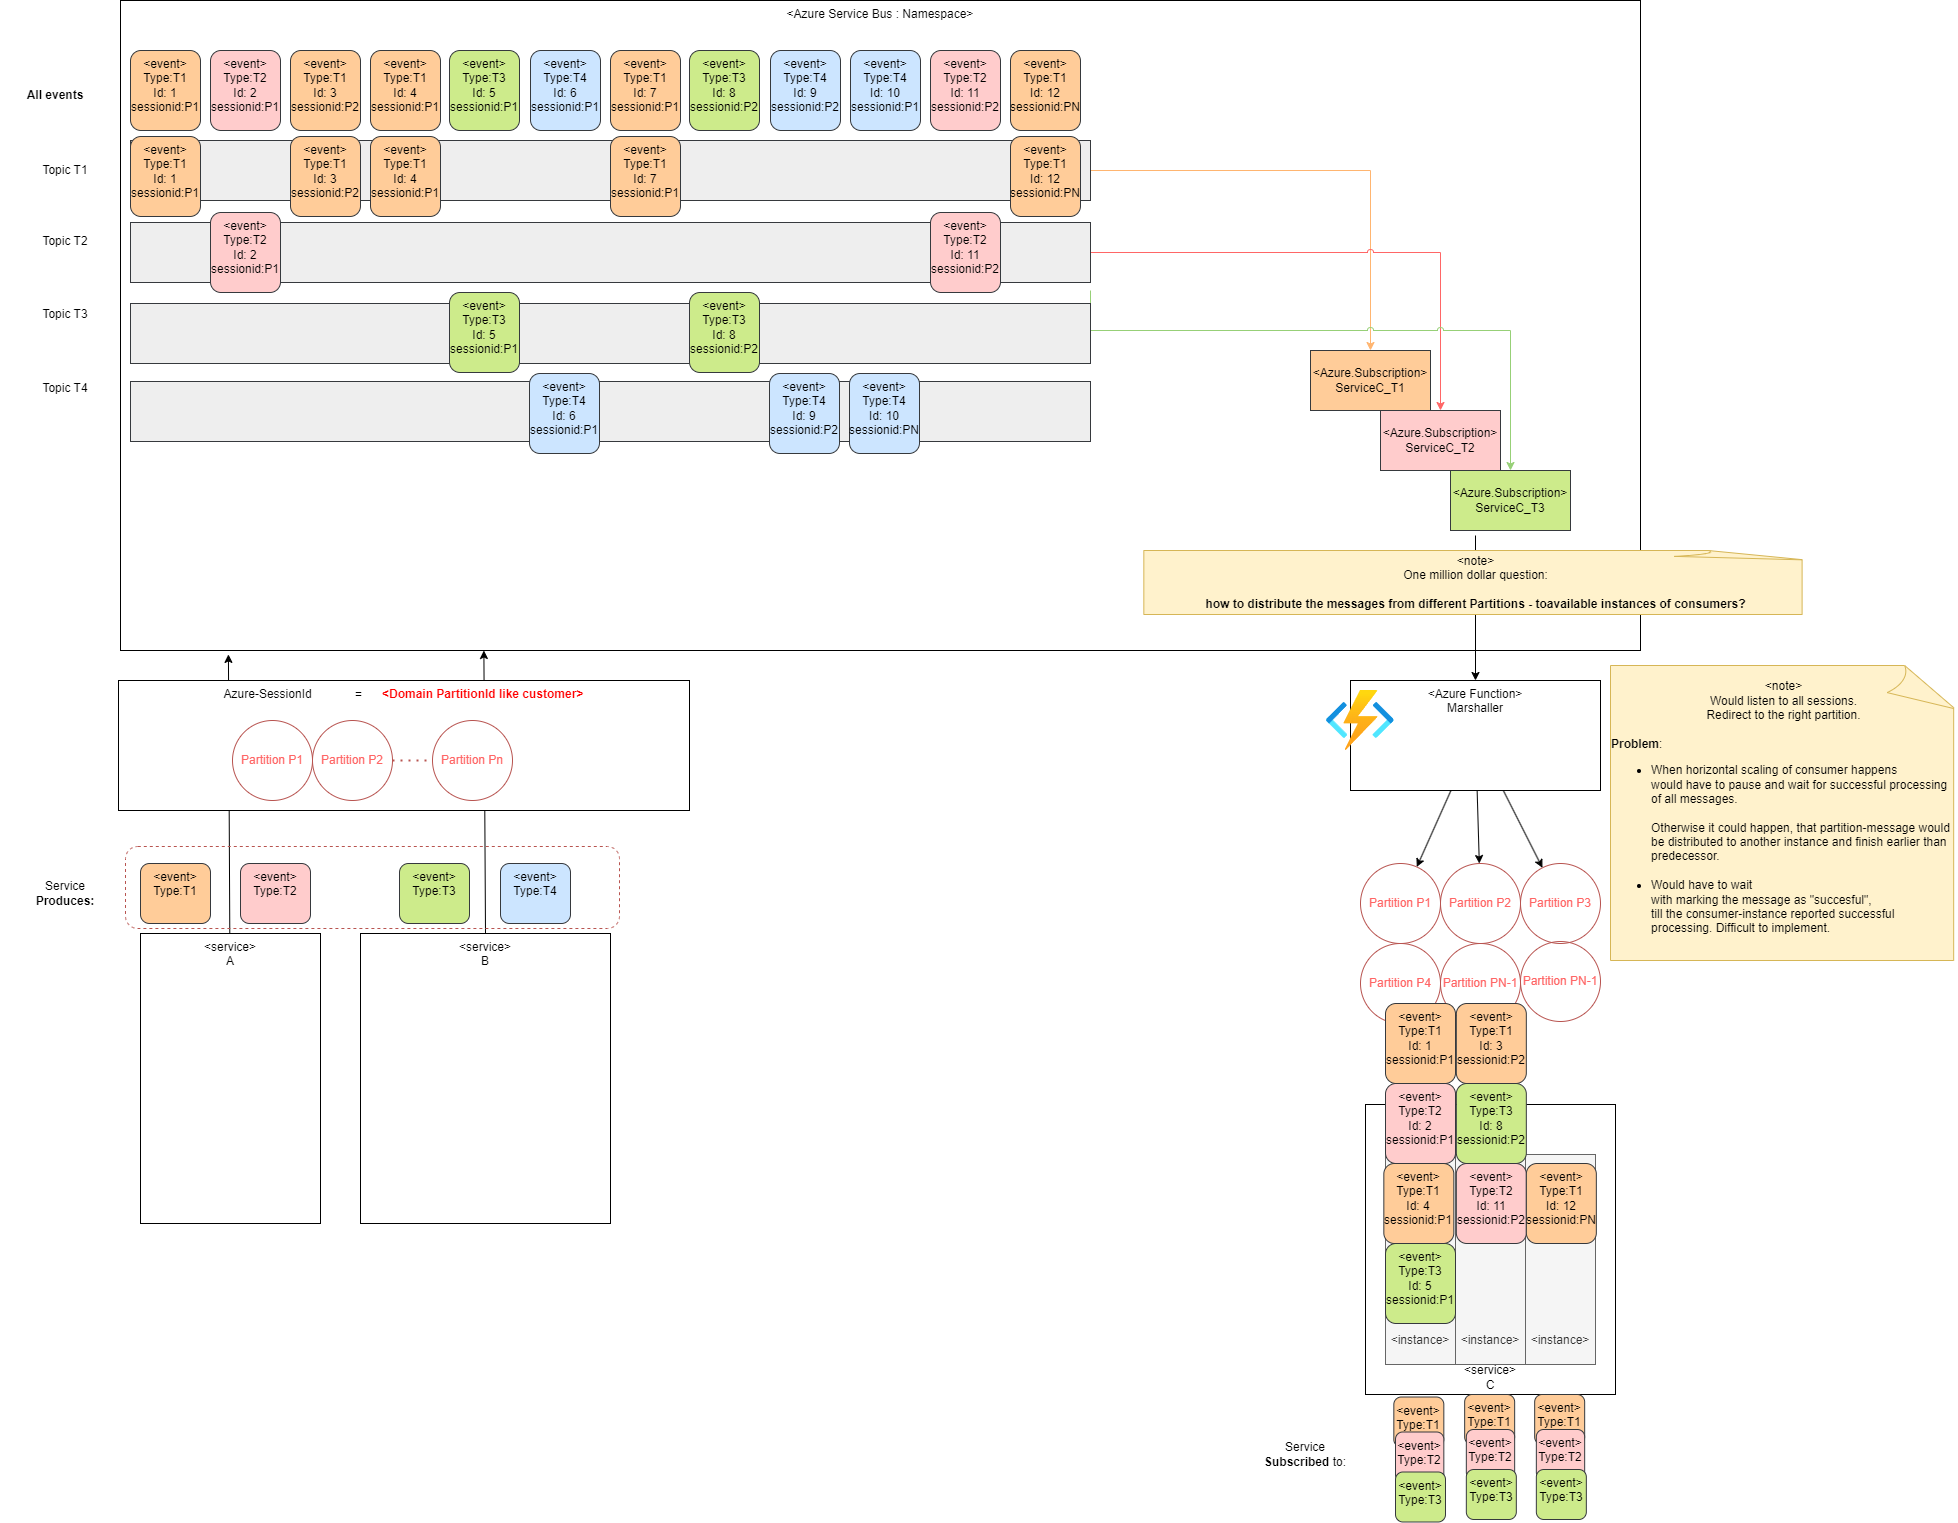
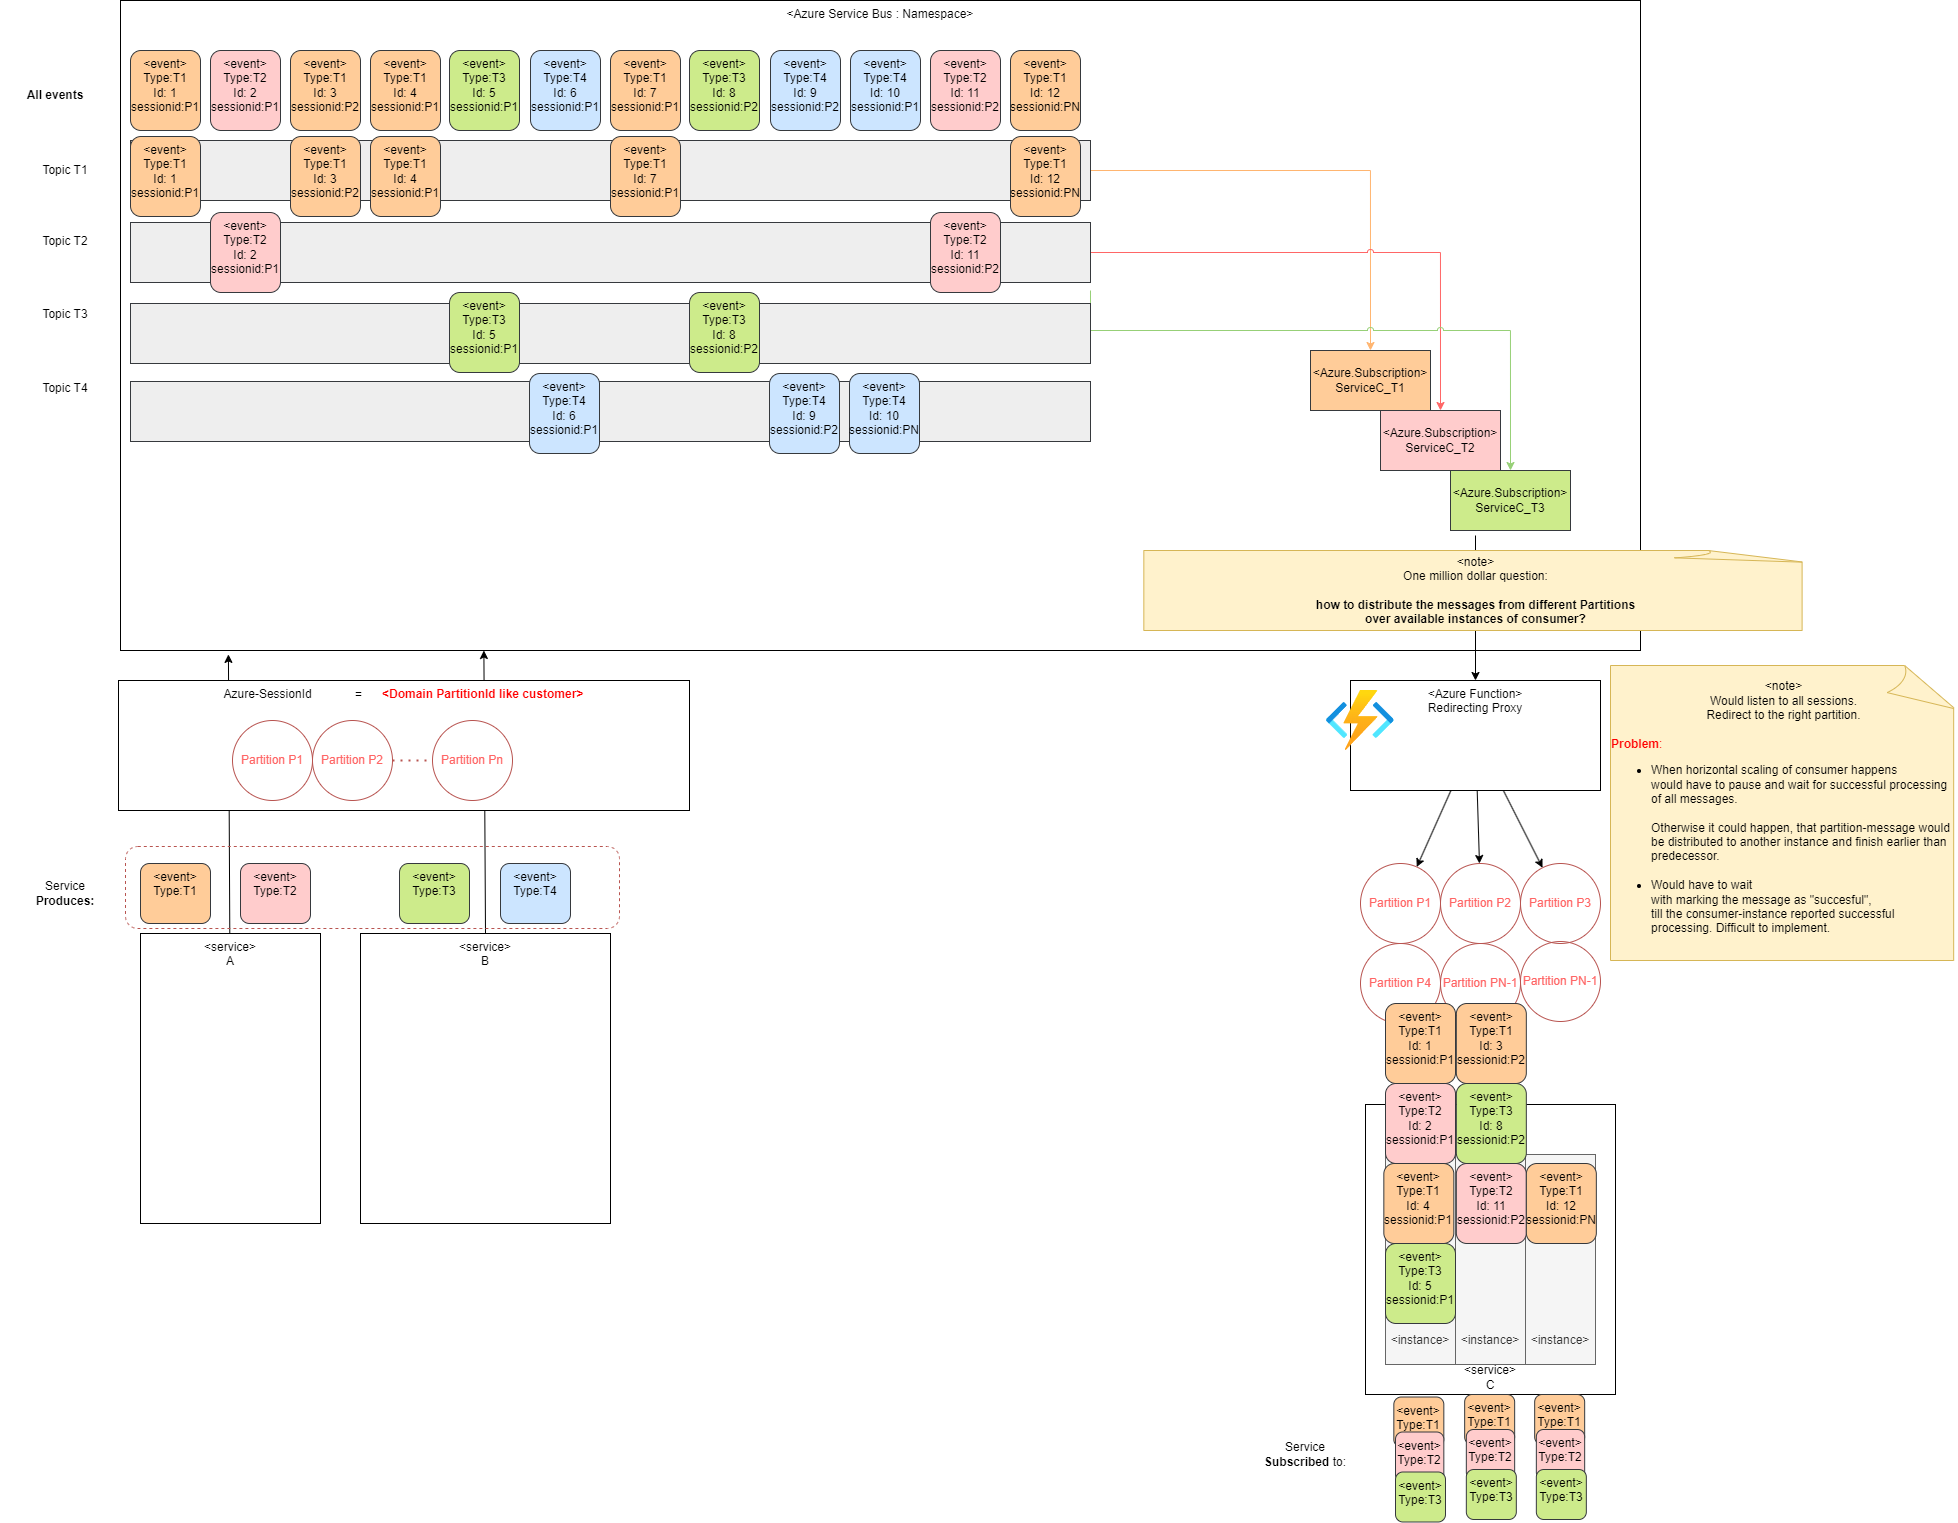
renaming to Redirecting Proxy

Changed region(s): [[0.5919, 0.3703, 0.9346, 0.432], [0.8723, 0.3395, 0.9035, 0.3703], [0.7477, 0.4629, 0.7789, 0.4938]]

diff --git a/content/docs/notes/article000048.md b/content/docs/notes/article000048.md
@@ -79,21 +79,26 @@ So consumer  would scale horizontally.
 
 ![Network](./article00048/partitioningToOneService-multiinstance.png)
 
-#### Try use martialler
+#### Try use a "Redirecting Proxy"
 
-You could try implement a martialing azure function.
+You could try implement a Redirecting Proxy Azure-function.
+
+Which would redirect the messages from the original queues
+over all available consumer instances.
+
+But this task has a lot of challenges.
 
 - When **horizontal scaling of consumer happens**
-martialler would have to pause and wait for successful processing of all messages.
+Redirecting Proxy would have to pause and wait for successful processing of all messages.
 Otherwise it could happen, that partition-message would be distributed to another instance and finish earlier than predecessor.
 
-- martialler would have to **wait
+- Redirecting Proxy would have to **wait
 with marking the message as "succesful"**,
 till the consumer-instance reported successful processing. Otherwise the message might be lost, when the consumer-instance fails.
 
 Its difficult to implement.
 
-Also martialler might become a bottleneck.
+Also Redirecting Proxy might become a bottleneck.
 
 ![Network](./article00048/partitioningToOneService-multiinstance-marshaller.png)
 
